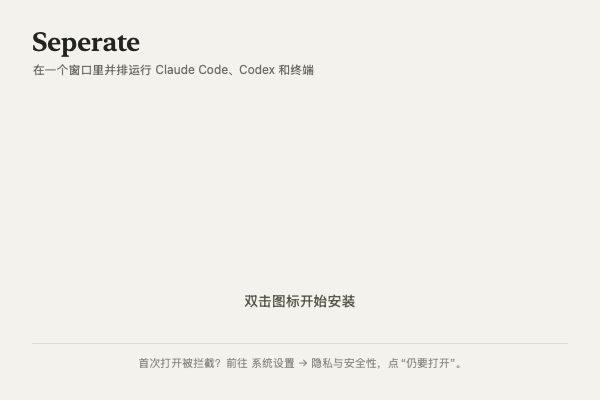
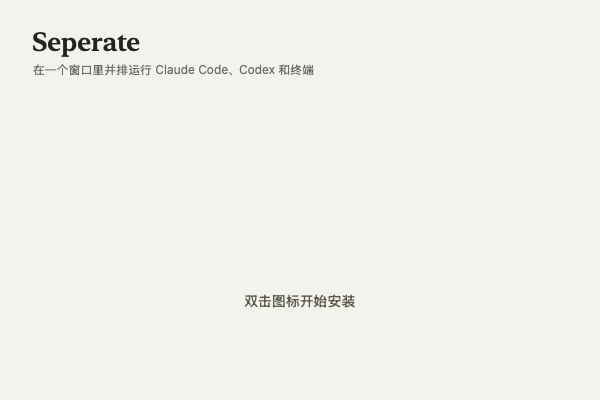
Sign and notarize with Tauri-style Apple secrets; plain DMG background when signed

Changed region(s): [[0.21, 0.87, 0.75, 0.93]]

diff --git a/scripts/make-installer-assets.swift b/scripts/make-installer-assets.swift
@@ -32,17 +32,21 @@ func text(_ s: String, font: NSFont, color c: NSColor, centerX: CGFloat? = nil, 
 // MARK: DMG background, 600×400 points. Finder draws the installer icon centered at (300, 190).
 
 let serif = NSFont(descriptor: NSFont.systemFont(ofSize: 26, weight: .semibold).fontDescriptor.withDesign(.serif)!, size: 26)!
+// Signed builds use the plain background; unsigned ones add a footer explaining the one-time Gatekeeper step.
+for (suffix, unsigned) in [("", false), ("-unsigned", true)] {
 for scale in [1, 2] as [CGFloat] {
     let data = png(NSSize(width: 600, height: 400), scale: scale) { size in
         color(0xF3F2EC).setFill(); NSRect(origin: .zero, size: size).fill()
         text("Seperate", font: serif, color: color(0x23241F), x: 32, top: 26, height: size.height)
         text("在一个窗口里并排运行 Claude Code、Codex 和终端", font: .systemFont(ofSize: 12), color: color(0x6A6B63), x: 33, top: 62, height: size.height)
         text("双击图标开始安装", font: .systemFont(ofSize: 14, weight: .medium), color: color(0x5B5A4A), centerX: 300, top: 292, height: size.height)
+        guard unsigned else { return }
         color(0xDCDBD2).setFill(); NSRect(x: 32, y: 56, width: 536, height: 1).fill()
         text("首次打开被拦截？前往 系统设置 → 隐私与安全性，点“仍要打开”。", font: .systemFont(ofSize: 11),
              color: color(0x8E8F86), centerX: 300, top: 356, height: size.height)
     }
-    try data.write(to: out.appendingPathComponent(scale == 1 ? "dmg-background.png" : "dmg-background@2x.png"))
+    try data.write(to: out.appendingPathComponent("dmg-background\(suffix)\(scale == 1 ? "" : "@2x").png"))
+}
 }
 
 // MARK: Installer icon: the app icon with a download badge.

diff --git a/README.md b/README.md
@@ -47,4 +47,14 @@ The workflow builds the app, packages the DMG and the update zip, signs the zip 
 
 One-time setup, already done for this repo: `scripts/sparkle-keys.sh` creates the Sparkle key pair in the login Keychain and stores the private key as the `SPARKLE_PRIVATE_KEY` secret. The public key is in `scripts/build-app.sh`.
 
-To sign with a Developer ID and notarize the app and the DMG (removes every Gatekeeper warning), add these repository secrets: `MACOS_CERT_P12` (base64 .p12), `MACOS_CERT_PASSWORD`, `APPLE_ID`, `APPLE_TEAM_ID`, `APPLE_APP_PASSWORD`.
+To sign with a Developer ID and notarize the app and the DMG (removes every Gatekeeper warning), add these repository secrets (same names and values as a Tauri app's signing setup):
+
+| Secret | Value |
+| --- | --- |
+| `APPLE_CERTIFICATE` | The "Developer ID Application" certificate exported as .p12, base64-encoded |
+| `APPLE_CERTIFICATE_PASSWORD` | Password chosen when exporting the .p12 |
+| `APPLE_ID` | Apple ID email of the developer account |
+| `APPLE_PASSWORD` | App-specific password from appleid.apple.com |
+| `APPLE_TEAM_ID` | Team ID, e.g. `UKPFND4844` |
+
+With them set, the release is signed and notarized, and the DMG background drops its Gatekeeper hint.
